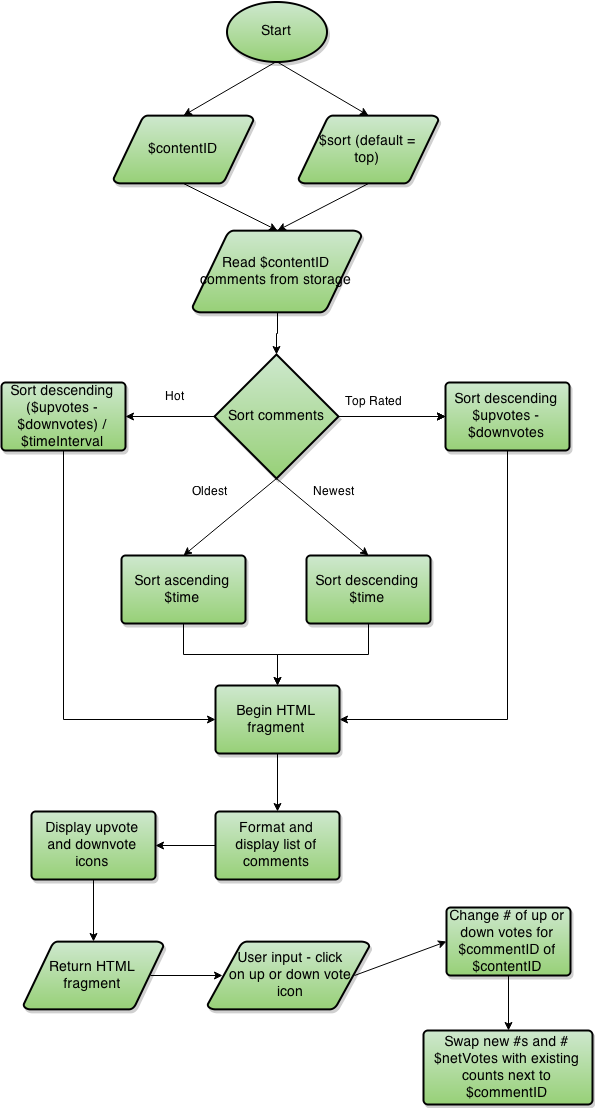
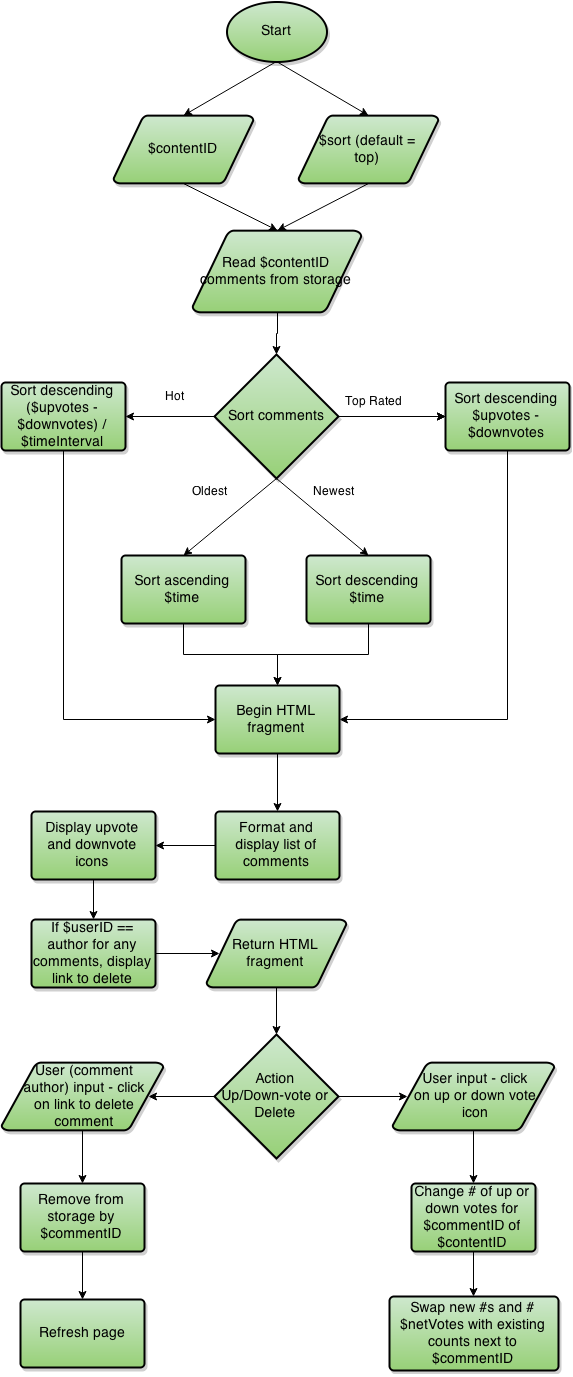
Added titles to algorithms. Added Comments input algorithm.

diff --git a/deliverableFiles.php b/deliverableFiles.php
@@ -84,18 +84,21 @@
 							 Need a lg clearfix every 6 -->
 
 							<div class="col-xs-4 col-sm-3 col-md-3 col-lg-2">
+							Content Display
 								<a href="images/ContentDisplay.png" class="thumbnail">
 									<img src="images/ContentDisplay.png">
 								</a>
 							</div>
 
 							<div class="col-xs-4 col-sm-3 col-md-3 col-lg-2">
+							Content Editing / Submission
 								<a href="images/ContentEditing.png" class="thumbnail">
 									<img src="images/ContentEditing.png">
 								</a>
 							</div>
 
 							<div class="col-xs-4 col-sm-3 col-md-3 col-lg-2">
+							Submission Approval / Rejection
 								<a href="images/SubmissionApproval.png" class="thumbnail">
 									<img src="images/SubmissionApproval.png">
 								</a>
@@ -103,7 +106,8 @@
 
 							<div class="clearfix visible-xs-block"></div>
 
-              <div class="col-xs-4 col-sm-3 col-md-3 col-lg-2">
+			  <div class="col-xs-4 col-sm-3 col-md-3 col-lg-2">
+			  Create Page Template
                 <a href="images/CreateTemplate.png" class="thumbnail">
                   <img src="images/CreateTemplate.png">
                 </a>
@@ -112,13 +116,15 @@
               <div class="clearfix visible-sm-block"></div>
               <div class="clearfix visible-md-block"></div>
 
-              <div class="col-xs-4 col-sm-3 col-md-3 col-lg-2">
+			  <div class="col-xs-4 col-sm-3 col-md-3 col-lg-2">
+			  Edit Page Template
                 <a href="images/EditTemplate.png" class="thumbnail">
                   <img src="images/EditTemplate.png">
                 </a>
               </div>
 
-              <div class="col-xs-4 col-sm-3 col-md-3 col-lg-2">
+			  <div class="col-xs-4 col-sm-3 col-md-3 col-lg-2">
+			  Edit Site Theme
                 <a href="images/EditTheme.png" class="thumbnail">
                   <img src="images/EditTheme.png">
                 </a>
@@ -128,52 +134,66 @@
               <div class="clearfix visible-lg-block"></div>
 
 							<div class="col-xs-4 col-sm-3 col-md-3 col-lg-2">
+							Comments Display Widget
 								<a href="images/CommentsDisplay.png" class="thumbnail">
 									<img src="images/CommentsDisplay.png">
 								</a>
 							</div>
 
 							<div class="col-xs-4 col-sm-3 col-md-3 col-lg-2">
-								<a href="images/Favorite-notificationWidget.png" class="thumbnail">
-									<img src="images/Favorite-notificationWidget.png">
+							Comment Input Widget
+								<a href="images/CommentInputWidget.png" class="thumbnail">
+									<img src="images/CommentInputWidget.png">
 								</a>
 							</div>
 
-              <div class="clearfix visible-sm-block"></div>
-              <div class="clearfix visible-md-block"></div>
+					       <div class="clearfix visible-sm-block"></div>
+						   <div class="clearfix visible-md-block"></div>
 
 							<div class="col-xs-4 col-sm-3 col-md-3 col-lg-2">
-								<a href="images/MediaElementDisplay.png" class="thumbnail">
-									<img src="images/MediaElementDisplay.png">
+							Favorites / Notification Widget
+								<a href="images/Favorite-notificationWidget.png" class="thumbnail">
+									<img src="images/Favorite-notificationWidget.png">
 								</a>
 							</div>
 
 							<div class="clearfix visible-xs-block"></div>
 
 							<div class="col-xs-4 col-sm-3 col-md-3 col-lg-2">
+							Media Element Display
+								<a href="images/MediaElementDisplay.png" class="thumbnail">
+									<img src="images/MediaElementDisplay.png">
+								</a>
+							</div>
+
+							<div class="col-xs-4 col-sm-3 col-md-3 col-lg-2">
+							News Feed Aggregation
 								<a href="images/NewsFeedAggregation.png" class="thumbnail">
 									<img src="images/NewsFeedAggregation.png">
 								</a>
 							</div>
 
 							<div class="col-xs-4 col-sm-3 col-md-3 col-lg-2">
+							News Feed Display Widget
 								<a href="images/NewsFeedDisplay.png" class="thumbnail">
 									<img src="images/NewsFeedDisplay.png" alt="Comments Display Algorithm">
 								</a>
 							</div>
 
+							<div class="clearfix visible-xs-block"></div>
+				            <div class="clearfix visible-sm-block"></div>
+				            <div class="clearfix visible-md-block"></div>
+				            <div class="clearfix visible-lg-block"></div>
+
 							<div class="col-xs-4 col-sm-3 col-md-3 col-lg-2">
+							Twitter Feed Display Widget
 								<a href="images/TwitterFeedDisplay.png" class="thumbnail">
 									<img src="images/TwitterFeedDisplay.png" alt="Comments Display Algorithm">
 								</a>
 							</div>
 
-							<div class="clearfix visible-xs-block"></div>
-              <div class="clearfix visible-sm-block"></div>
-              <div class="clearfix visible-md-block"></div>
-              <div class="clearfix visible-lg-block"></div>
-
 							<div class="col-xs-4 col-sm-3 col-md-3 col-lg-2">
+							Twitter Feed Aggregation
 								<a href="images/TwitterFeedAggregation.png" class="thumbnail">
 									<img src="images/TwitterFeedAggregation.png" alt="Comments Display Algorithm">
 								</a>
